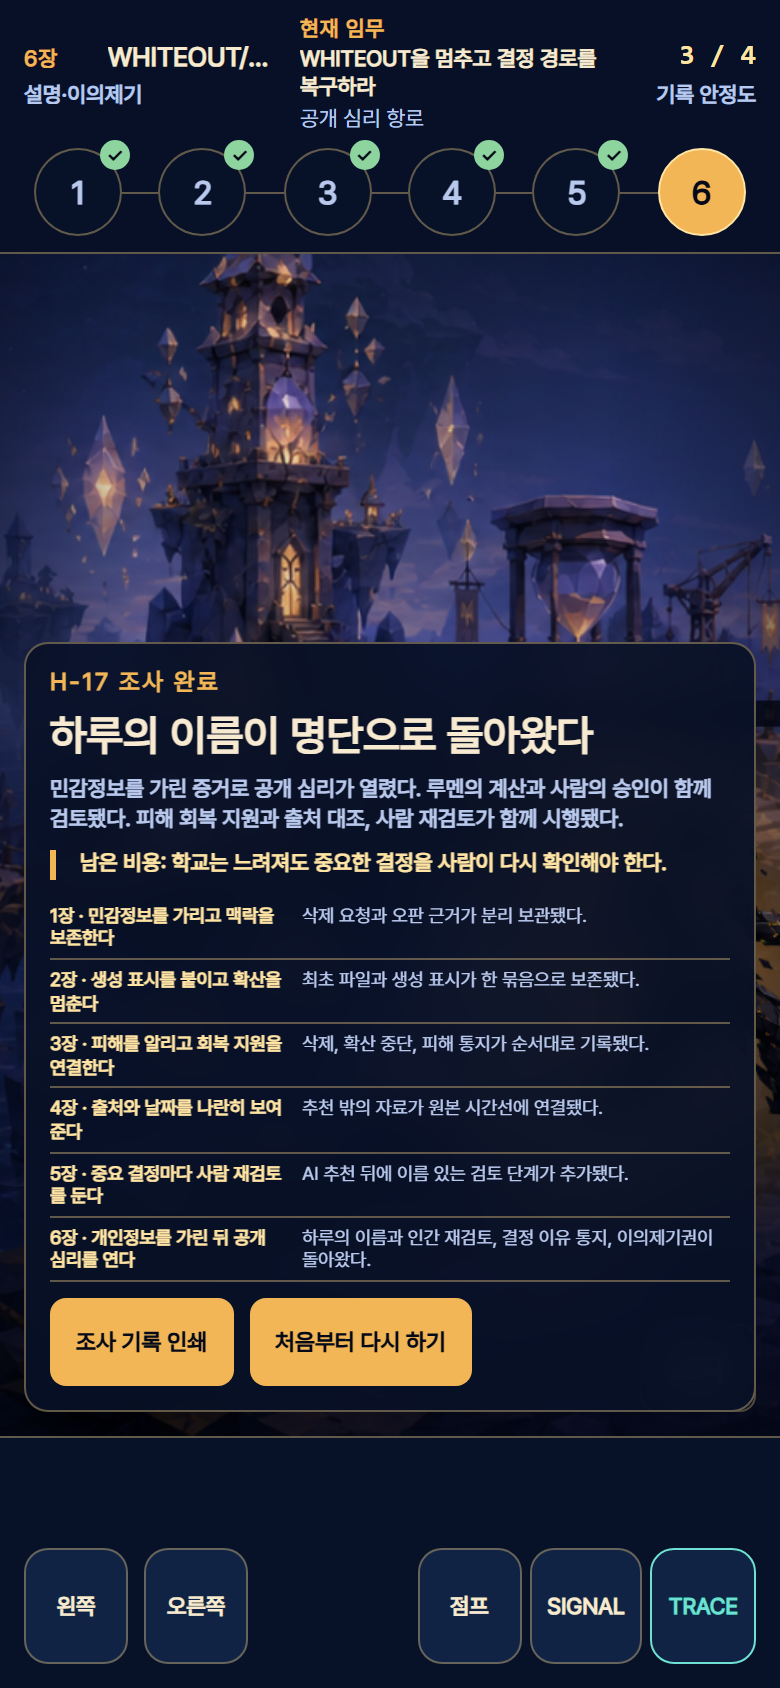
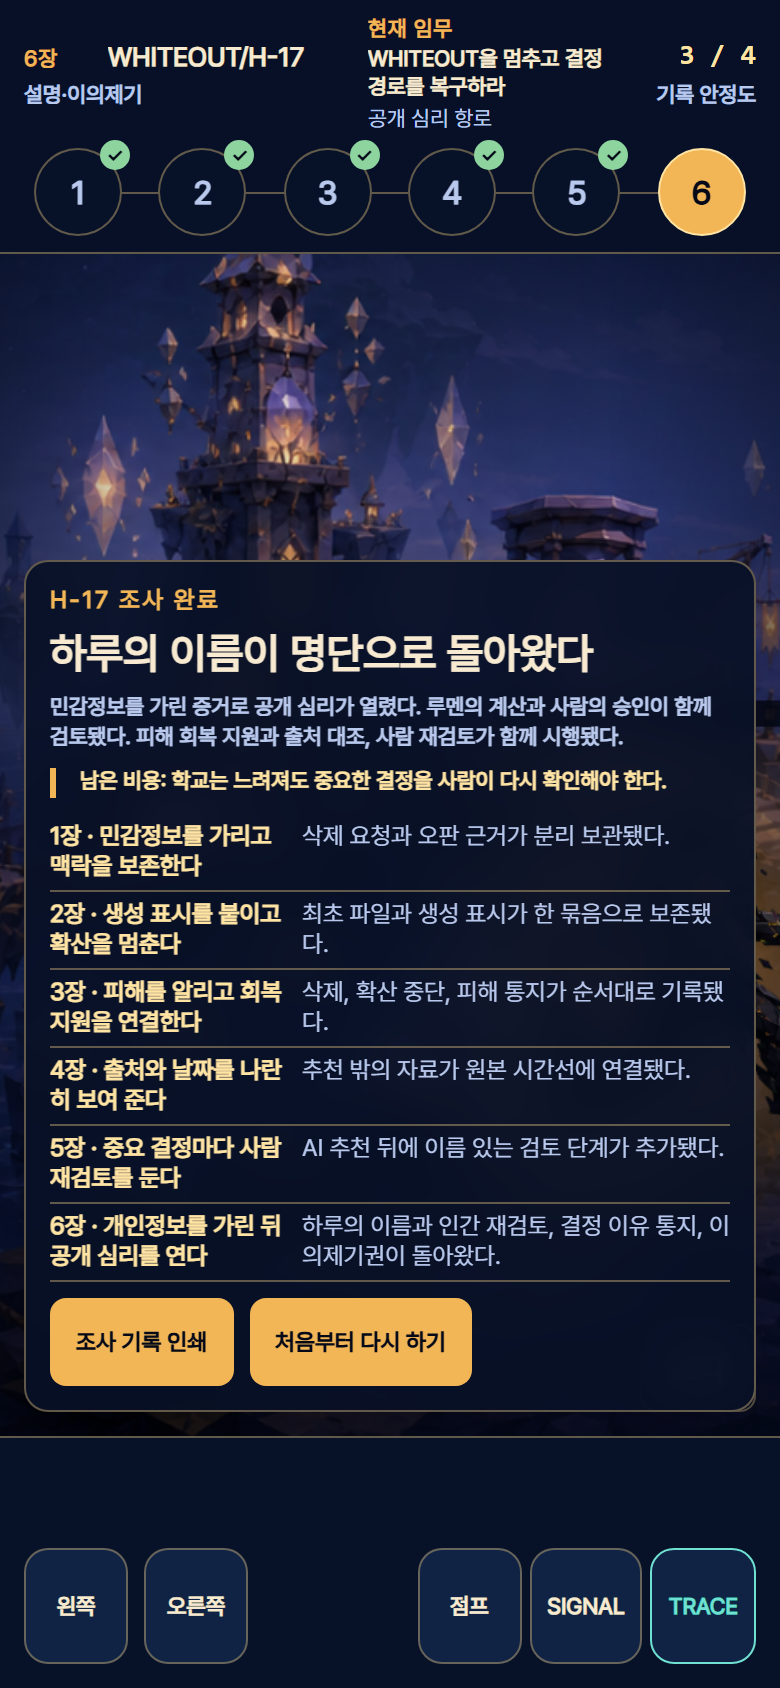
fix: complete mobile and ending visual evidence
Keep all six investigation rows visible, preserve complete mobile chapter labels, and balance Korean result headings. Strengthen the browser evidence gate so clipped final states cannot pass unnoticed.\n\nCo-Authored-By: Claude <noreply@anthropic.com>

Changed region(s): [[0.0308, 0.3081, 0.9846, 0.7701], [0.3077, 0.0, 0.7692, 0.0924]]

diff --git a/src/illustrated/style.css b/src/illustrated/style.css
@@ -499,6 +499,8 @@ a:focus-visible {
   font-size: clamp(1.5rem, 3vw, 2.5rem);
   font-weight: 850;
   line-height: 1.15;
+  text-wrap: balance;
+  word-break: keep-all;
 }
 
 .choice-options {
@@ -551,6 +553,7 @@ a:focus-visible {
   font-size: 0.875rem;
   font-weight: 600;
   line-height: 1.6;
+  word-break: keep-all;
 }
 
 .result-cost,
@@ -571,6 +574,10 @@ a:focus-visible {
   padding: 0;
   overflow: auto;
   list-style: none;
+}
+
+.ending-panel .report-list {
+  max-height: none;
 }
 
 .report-list li {
@@ -910,6 +917,7 @@ a:focus-visible {
 @media (max-width: 520px) and (orientation: portrait) {
   .game-hud {
     min-height: 112px;
+    grid-template-columns: minmax(160px, 0.65fr) minmax(0, 1fr) auto;
   }
 
   .chapter-mark strong {
@@ -1006,7 +1014,7 @@ a:focus-visible {
 
   .ending-panel .report-list strong,
   .ending-panel .report-list span {
-    font-size: 0.58rem;
+    font-size: 0.75rem;
     line-height: 1.25;
   }
 

diff --git a/DESIGN.md b/DESIGN.md
@@ -112,7 +112,14 @@ Strategy: mixed.
 - 이야기·선택 패널은 `0 20px 50px rgba(0, 0, 0, 0.36)` 한 단계만 쓴다.
 - 중첩 카드와 과도한 유리 효과를 금지한다.
 
-## 8. Accessibility Constraints & Accepted Debt
+## 8. Reference Fidelity Contract
+
+- 사용자가 승인한 2D 횡스크롤 전환에 따라 원화의 픽셀 배열이나 3인칭 카메라를 복제하지 않는다.
+- 대신 부유 캠퍼스의 실루엣, 남색 달빛, 호박빛 기록 경로, 중앙 기록 장치, 학생 캐릭터의 비율과 HUD 위계를 보존한다.
+- 레퍼런스 비교는 동일한 1440×900 화면에서 이 여섯 요소의 구성·가독성·분위기를 검토한다. 픽셀 유사도는 움직이는 횡스크롤 화면의 수용 기준으로 사용하지 않는다.
+- 원화를 정적인 전체 화면 배경으로 붙여 게임처럼 보이게 하는 방식은 금지한다. 캐릭터, 적, 증거, 충돌, 카메라와 HUD는 각각 실제 런타임 상태로 동작해야 한다.
+
+## 9. Accessibility Constraints & Accepted Debt
 
 ### Constraints
 
